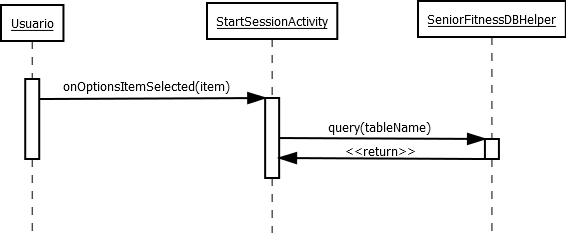
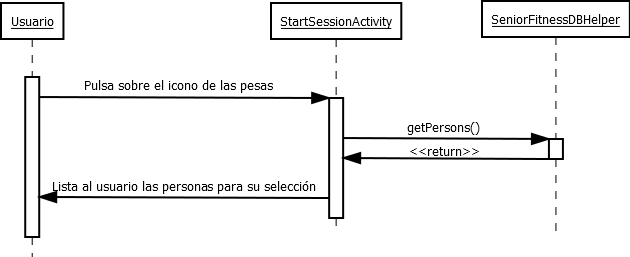
Memoria
memoria

diff --git a/memoria/cap5.tex b/memoria/cap5.tex
@@ -355,7 +355,7 @@ Para el diseño de componentes se realizarán los diseños de los diagramas de s
 
 Como es sabido de los diagramas de secuencia, éstos representan los flujos de comunicación que se dan para un determinado caso de uso del sistema, por lo que, dados los casos de uso desarrollados en el capítulo de análisis de requisitos para la aplicación que nos ocupa, se procederá a diseñarlos en base a estos diagramas.\\
 
-Cabe destacar que no todos los posibles diagramas de secuencia aparecerán, sino que nos centraremos en aquellos casos de uso de la aplicación que se consideren mas relevantes.
+Cabe destacar que no todos los posibles diagramas de secuencia aparecerán, sino que nos centraremos en aquellos casos de uso de la aplicación que se consideren mas relevantes, de forma que solo se mostrarán aquellos que impliquen algún tipo de cambio en el sistema.
 
 \subsubsection{Diagrama de secuencia de registro de persona}
 
@@ -374,4 +374,12 @@ El diagrama de secuencia para el comienzo de sesión en la aplicación constituy
 Cuando se accede a la pantalla de selección de persona, el sistema hace una consulta a la base de datos para recuperar el listado de personas que están dadas de alta en la aplicación, y se mostrarán al usuario para que se proceda con la selección de la persona para la cual se creará la sesión en el siguiente paso.\\
 
 \figura{diagrama_secuencia_comienzo_sesion.png}{scale=0.6}{Diagrama de secuencia de registro de comienzo de sesión}{diagrama_secuencia_comienzo_sesion}{H}
+
+\subsubsection{Diagrama de secuencia de selección de la persona que comenzará la sesión}
+
+Partiendo de la base del diagrama de secuencia anterior, en el cual se ha obtenido el listado de personas dadas de alta en el sistema y se han mostrado al usuario, el siguiente paso consistirá en la selección de la persona para la cual se creará la sesión en el sistema.\\
+
+El sistema asociará a la persona una nueva sesión en caso de que no tuviese ninguna otra en progreso. En el caso de que el usuario ya tuviese una sesión en progreso, se continuará con la misma, mostrando la pantalla de selección de tests al usuario con el progreso y los resultados obtenidos hasta el momento.\\
+
+\figura{diagrama_secuencia_seleccion_persona.png}{scale=0.6}{Diagrama de secuencia de selección de la persona que comenzará la sesión}{diagrama_secuencia_seleccion_persona}{H}
 
